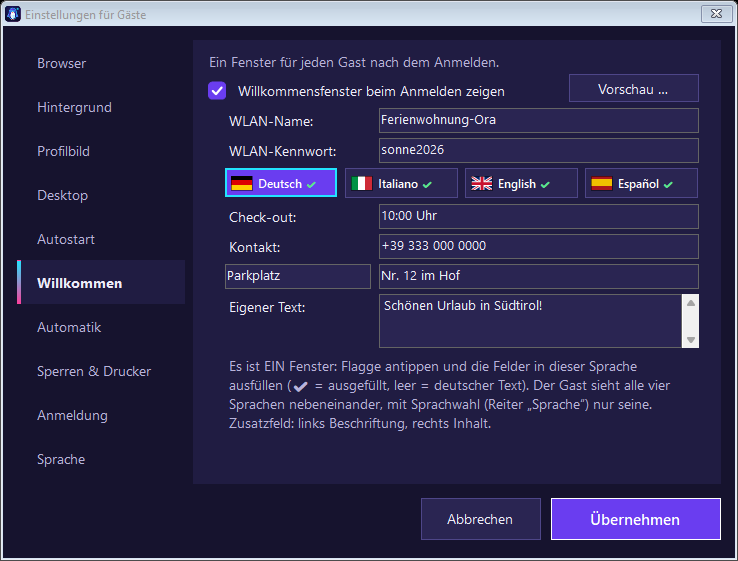
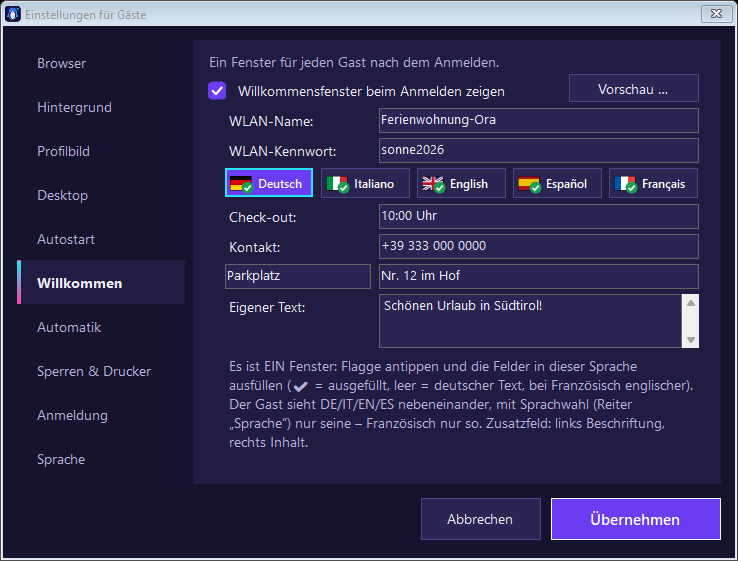
FreshGuest 1.26: French welcome texts (fifth flag tab)
Own French fields in the welcome settings, empty falls back to English then German;
check mark shown as a green badge on the flag.

Changed region(s): [[0.3117, 0.6667, 0.935, 0.8182], [0.4051, 0.303, 0.935, 0.3636], [0.3117, 0.303, 0.3428, 0.3636]]

diff --git a/anleitung/vorlage.html b/anleitung/vorlage.html
@@ -199,7 +199,7 @@
   <p>Jeder Gast sieht nach dem Anmelden ein Fenster – mit WLAN-Name und -Kennwort, Check-out-Zeit, deinem Kontakt und dem Hinweis,
   dass alles gelöscht wird. Die Texte stehen immer in <b>Deutsch, Italienisch, Englisch und Spanisch gleichzeitig</b> da, weil man nicht weiß, wer vor dem PC sitzt. Leere Felder werden nicht angezeigt. <b>Vorschau …</b> zeigt das Fenster, wie der Gast es sieht.</p>
   <ul>
-    <li><b>Texte je Sprache:</b> Es gibt nur <b>ein</b> Willkommensfenster – die Flaggen über den Feldern wählen nur, in welcher Sprache du gerade schreibst. Flagge antippen und Check-out, Kontakt, Zusatzfeld und eigenen Text in dieser Sprache eintragen; ein grünes ✔ an der Flagge zeigt, dass diese Sprache schon Text hat. Bleibt ein Feld in einer Sprache leer, gilt der deutsche Eintrag. WLAN-Name und -Kennwort gelten für alle. Ist die Sprachwahl für Gäste an, zeigt „Vorschau“ das Fenster in der gerade gewählten Sprache.</li>
+    <li><b>Texte je Sprache:</b> Es gibt nur <b>ein</b> Willkommensfenster – die Flaggen über den Feldern wählen nur, in welcher Sprache du gerade schreibst. Flagge antippen und Check-out, Kontakt, Zusatzfeld und eigenen Text in dieser Sprache eintragen; ein grünes ✔ an der Flagge zeigt, dass diese Sprache schon Text hat. Bleibt ein Feld in einer Sprache leer, gilt der deutsche Eintrag (bei Französisch zuerst der englische). Französisch sehen nur Gäste, die es über die Flaggen gewählt haben – dafür muss das französische Sprachpaket installiert und die Sprachwahl an sein. WLAN-Name und -Kennwort gelten für alle. Ist die Sprachwahl für Gäste an, zeigt „Vorschau“ das Fenster in der gerade gewählten Sprache.</li>
     <li><b>Zusatzfeld:</b> ein frei benennbares Feld – links die Beschriftung (z. B. „Parkplatz“ oder „Müll“), rechts der Inhalt.</li>
   </ul>
   <figure><img src="{{BILD:13-gast-willkommen}}" alt="Willkommensfenster beim Gast"><figcaption>So sieht es der Gast – alle Sprachen gleichzeitig</figcaption></figure>
@@ -246,7 +246,7 @@ reg unload HKLM\FG</pre></div>
   Hast du z. B. einen PC mit deutschem Windows auf Englisch umgestellt, sehen Gäste trotzdem Deutsch. Hier wählst du die <b>Windows-Sprache für Gäste</b>
   (Startmenü, Einstellungen, Explorer). Zur Auswahl stehen die Sprachpakete, die auf dem PC installiert sind. Die Tastatur bleibt wie bei deinem Konto,
   damit sie zur echten Tastatur am PC passt. Gilt ab dem nächsten Gast. Häkchen weg + Übernehmen = wieder Windows-Vorgabe.</p>
-  <p><b>Gäste dürfen die Windows-Sprache selbst wählen:</b> Beim Anmelden sieht der Gast zuerst nur die Flaggen – Deutsch, Italienisch, Englisch und Spanisch, soweit das Sprachpaket installiert ist. Ist auch das französische Sprachpaket installiert, kommt Französisch als fünfte Flagge dazu: Die festen Texte erscheinen dann auf Französisch, deine eigenen Texte (Check-out, Kontakt …) in der englischen Fassung.
+  <p><b>Gäste dürfen die Windows-Sprache selbst wählen:</b> Beim Anmelden sieht der Gast zuerst nur die Flaggen – Deutsch, Italienisch, Englisch und Spanisch, soweit das Sprachpaket installiert ist. Ist auch das französische Sprachpaket installiert, kommt Französisch als fünfte Flagge dazu: Windows und das Willkommen erscheinen dann auf Französisch. Deine eigenen Texte dafür trägst du im Reiter „Willkommen“ unter der Flagge „Français“ ein; fehlt dort etwas, gilt der englische Text.
   Tippt er auf seine Sprache, fragt FreshGuest in dieser Sprache nach, meldet den PC kurz ab und gleich wieder an (etwa eine Minute). Danach kommt das Willkommensfenster <b>nur in seiner Sprache</b>, groß und übersichtlich;
   mit „Andere Sprache“ kann er noch einmal wechseln. Wählt er die Sprache, die schon eingestellt ist, kommt das Willkommen sofort. Der nächste Gast bekommt wieder deine Standardsprache.
   Für jede Sprache muss das Windows-Sprachpaket installiert sein (mit deinem Konto: Einstellungen → Zeit und Sprache → Sprache und Region → Sprache hinzufügen). Ohne Sprachwahl zeigt das Willkommensfenster alle vier Sprachen nebeneinander.</p>
@@ -386,7 +386,7 @@ reg unload HKLM\FG</pre></div>
   <p>Dopo l'accesso ogni ospite vede una finestra – con nome e password del Wi-Fi, orario di check-out, il tuo contatto e l'avviso
   che tutto viene cancellato. I testi sono sempre in <b>tedesco, italiano, inglese e spagnolo insieme</b>, perché non si sa chi è seduto al PC. I campi vuoti non vengono mostrati. <b>Anteprima …</b> mostra la finestra come la vede l'ospite.</p>
   <ul>
-    <li><b>Testi per lingua:</b> la finestra di benvenuto è <b>una sola</b> – le bandiere sopra i campi scelgono solo in quale lingua stai scrivendo. Tocca una bandiera e inserisci check-out, contatto, campo extra e testo proprio in quella lingua; una ✔ verde sulla bandiera indica che quella lingua ha già del testo. Se un campo resta vuoto in una lingua, vale quello tedesco. Nome e password del Wi-Fi valgono per tutti. Con la scelta della lingua per gli ospiti attiva, «Anteprima» mostra la finestra nella lingua selezionata.</li>
+    <li><b>Testi per lingua:</b> la finestra di benvenuto è <b>una sola</b> – le bandiere sopra i campi scelgono solo in quale lingua stai scrivendo. Tocca una bandiera e inserisci check-out, contatto, campo extra e testo proprio in quella lingua; una ✔ verde sulla bandiera indica che quella lingua ha già del testo. Se un campo resta vuoto in una lingua, vale quello tedesco (per il francese prima quello inglese). Il francese lo vedono solo gli ospiti che lo scelgono con le bandiere – serve il pacchetto di lingua francese e la scelta della lingua attiva. Nome e password del Wi-Fi valgono per tutti. Con la scelta della lingua per gli ospiti attiva, «Anteprima» mostra la finestra nella lingua selezionata.</li>
     <li><b>Campo extra:</b> un campo con etichetta libera – a sinistra l'etichetta (ad es. «Parcheggio» o «Rifiuti»), a destra il contenuto.</li>
   </ul>
   <figure><img src="{{BILD:13-gast-willkommen-it}}" alt="Finestra di benvenuto"><figcaption>Così la vede l'ospite – tutte le lingue insieme</figcaption></figure>
@@ -434,7 +434,7 @@ reg unload HKLM\FG</pre></div>
   Se ad es. hai impostato in inglese un PC con Windows tedesco, gli ospiti vedono comunque il tedesco. Qui scegli la <b>lingua di Windows per gli ospiti</b>
   (menu Start, Impostazioni, Esplora file). Si possono scegliere i pacchetti di lingua installati sul PC. La tastiera resta come nel tuo account,
   così corrisponde alla tastiera fisica del PC. Vale dal prossimo ospite. Togliere la spunta + Applica = di nuovo l'impostazione predefinita di Windows.</p>
-  <p><b>Gli ospiti possono scegliere la lingua di Windows:</b> all'accesso l'ospite vede prima solo le bandiere – tedesco, italiano, inglese e spagnolo, se il pacchetto di lingua è installato. Se è installato anche il pacchetto francese, il francese si aggiunge come quinta bandiera: i testi fissi appaiono in francese, i tuoi testi (check-out, contatto …) nella versione inglese.
+  <p><b>Gli ospiti possono scegliere la lingua di Windows:</b> all'accesso l'ospite vede prima solo le bandiere – tedesco, italiano, inglese e spagnolo, se il pacchetto di lingua è installato. Se è installato anche il pacchetto francese, il francese si aggiunge come quinta bandiera: Windows e il benvenuto appaiono allora in francese. I tuoi testi per il francese si inseriscono nella scheda «Benvenuto» sotto la bandiera «Français»; se lì manca qualcosa, vale il testo inglese.
   Se tocca la sua lingua, FreshGuest chiede conferma in quella lingua, disconnette il PC per un attimo e lo riconnette subito (circa un minuto). Poi appare la finestra di benvenuto <b>solo nella sua lingua</b>, grande e chiara;
   con «Altra lingua» può cambiare ancora. Se sceglie la lingua già impostata, il benvenuto appare subito. L'ospite successivo riceve di nuovo la tua lingua predefinita.
   Per ogni lingua deve essere installato il pacchetto di lingua di Windows (con il tuo account: Impostazioni → Data/ora e lingua → Lingua e area geografica → Aggiungi una lingua). Senza scelta della lingua la finestra di benvenuto mostra tutte e quattro le lingue affiancate.</p>
@@ -574,7 +574,7 @@ reg unload HKLM\FG</pre></div>
   <p>After sign-in every guest sees a window – with Wi-Fi name and password, check-out time, your contact and the notice
   that everything is deleted. The texts are always shown in <b>German, Italian, English and Spanish together</b>, because you never know who is sitting at the PC. Empty fields are not shown. <b>Preview …</b> shows the window as the guest sees it.</p>
   <ul>
-    <li><b>Texts per language:</b> there is only <b>one</b> welcome window – the flags above the fields only choose the language you are writing in. Tap a flag and enter check-out, contact, extra field and own text in that language; a green ✔ on the flag shows that this language already has text. If a field is empty in one language, the German entry is used. Wi-Fi name and password apply to all. With language choice for guests on, “Preview” shows the window in the selected language.</li>
+    <li><b>Texts per language:</b> there is only <b>one</b> welcome window – the flags above the fields only choose the language you are writing in. Tap a flag and enter check-out, contact, extra field and own text in that language; a green ✔ on the flag shows that this language already has text. If a field is empty in one language, the German entry is used (for French the English one first). Only guests who pick French with the flags see it – this needs the French language pack and language choice switched on. Wi-Fi name and password apply to all. With language choice for guests on, “Preview” shows the window in the selected language.</li>
     <li><b>Extra field:</b> a field with a label of your choice – label on the left (e.g. “Parking” or “Waste”), content on the right.</li>
   </ul>
   <figure><img src="{{BILD:13-gast-willkommen-en}}" alt="Guest welcome window"><figcaption>What the guest sees – all languages together</figcaption></figure>
@@ -622,7 +622,7 @@ reg unload HKLM\FG</pre></div>
   If, for example, you switched a PC with German Windows to English, guests still see German. Here you choose the <b>Windows language for guests</b>
   (Start menu, Settings, Explorer). You can pick from the language packs installed on the PC. The keyboard stays as in your account,
   so it matches the PC's physical keyboard. Applies from the next guest. Untick + Apply = back to the Windows default.</p>
-  <p><b>Guests may choose the Windows language themselves:</b> at sign-in the guest first sees only the flags – German, Italian, English and Spanish, as far as the language pack is installed. If the French language pack is installed too, French is added as a fifth flag: the fixed texts appear in French, your own texts (check-out, contact …) in their English version.
+  <p><b>Guests may choose the Windows language themselves:</b> at sign-in the guest first sees only the flags – German, Italian, English and Spanish, as far as the language pack is installed. If the French language pack is installed too, French is added as a fifth flag: Windows and the welcome then appear in French. You enter your own French texts in the “Welcome” tab under the “Français” flag; anything missing there is taken from the English text.
   When they tap their language, FreshGuest asks for confirmation in that language, signs the PC out briefly and straight back in (about a minute). Then the welcome window appears <b>in their language only</b>, large and clear;
   “Other language” lets them switch again. If they pick the language that is already set, the welcome appears right away. The next guest gets your default language again.
   Each language needs its Windows language pack (with your account: Settings → Time &amp; language → Language &amp; region → Add a language). Without language choice the welcome window shows all four languages side by side.</p>

diff --git a/src/FreshGuest.cs b/src/FreshGuest.cs
@@ -2412,13 +2412,13 @@ namespace GaesteSchutz
 
             // Ab hier je Sprache: erst die Flagge antippen, dann die Felder in dieser Sprache ausfüllen
             int tx = 32;
-            foreach (GuestLang gl in GuestTexts.Active(editInfo.Lang4))
+            foreach (GuestLang gl in GuestTexts.Active(editInfo.Lang4).Concat(new[] { GuestTexts.Fr }))     // + Französisch
             {
-                var tab = new LangTab(gl.Code, gl.Name) { Location = new Point(tx, 128), Size = new Size(113, 30) };
+                var tab = new LangTab(gl.Code, gl.Name) { Location = new Point(tx, 128), Size = new Size(89, 30) };
                 tab.Click += (s, e) => SelectEditLang(tab.LangTag);
                 langTabs.Add(tab);
                 t.Controls.Add(tab);
-                tx += 120;
+                tx += 96;
             }
             txtCheckout = WelcomeRow(t, "Check-out:", 164, "");
             txtContact = WelcomeRow(t, L.T("Kontakt:", "Contatto:", "Contact:"), 194, "");
@@ -2436,9 +2436,9 @@ namespace GaesteSchutz
             btnPreview.Click += (s, e) => WelcomeForm.Preview(this, CurrentWelcome(), chkChoice.Checked ? editSlot : null);
             t.Controls.Add(btnPreview);
             Indent(AddInfo(t, L.T(
-                "Es ist EIN Fenster: Flagge antippen und die Felder in dieser Sprache ausfüllen (✔ = ausgefüllt, leer = deutscher Text). Der Gast sieht alle vier Sprachen nebeneinander, mit Sprachwahl (Reiter „Sprache“) nur seine. Zusatzfeld: links Beschriftung, rechts Inhalt.",
-                "È UNA sola finestra: tocca una bandiera e compila i campi in quella lingua (✔ = compilata, vuoto = testo tedesco). L'ospite vede tutte e quattro le lingue affiancate, con la scelta della lingua (scheda «Lingua») solo la sua. Campo extra: a sinistra l'etichetta, a destra il contenuto.",
-                "It is ONE window: tap a flag and fill in the fields in that language (✔ = filled in, empty = German text). The guest sees all four languages side by side, with language choice (\"Language\" tab) only their own. Extra field: label on the left, content on the right."),
+                "Es ist EIN Fenster: Flagge antippen und die Felder in dieser Sprache ausfüllen (✔ = ausgefüllt, leer = deutscher Text, bei Französisch englischer). Der Gast sieht DE/IT/EN/ES nebeneinander, mit Sprachwahl (Reiter „Sprache“) nur seine – Französisch nur so. Zusatzfeld: links Beschriftung, rechts Inhalt.",
+                "È UNA sola finestra: tocca una bandiera e compila i campi in quella lingua (✔ = compilata, vuoto = testo tedesco, per il francese quello inglese). L'ospite vede DE/IT/EN/ES affiancate, con la scelta della lingua (scheda «Lingua») solo la sua – il francese solo così. Campo extra: a sinistra l'etichetta, a destra il contenuto.",
+                "It is ONE window: tap a flag and fill in the fields in that language (✔ = filled in, empty = German text, for French the English one). The guest sees DE/IT/EN/ES side by side, with language choice (\"Language\" tab) only their own – French only that way. Extra field: label on the left, content on the right."),
                 316, 100), 32);
 
             LoadWelcomeFields();
@@ -2487,13 +2487,14 @@ namespace GaesteSchutz
             txtExtraName.Text = editInfo.Raw("ExtraName", editSlot);
             txtExtra.Text = editInfo.Raw("Extra", editSlot);
             txtText.Text = editInfo.Raw("Text", editSlot);
-            // Grauer Hinweis im leeren Feld: in anderen Sprachen der deutsche Eintrag, der sonst gilt
+            // Grauer Hinweis im leeren Feld: der Eintrag, der sonst gilt (Deutsch; bei Französisch erst Englisch)
             bool de = editSlot == "de";
-            Cue(txtCheckout, de ? "" : editInfo.Raw("Checkout", "de"));
-            Cue(txtContact, de ? "" : editInfo.Raw("Kontakt", "de"));
-            Cue(txtExtra, de ? "" : editInfo.Raw("Extra", "de"));
-            Cue(txtExtraName, de || editInfo.Raw("ExtraName", "de").Length == 0
-                ? L.T("Zusatzfeld, z. B. Parkplatz", "Campo extra, ad es. Parcheggio", "Extra field, e.g. Parking") : editInfo.Raw("ExtraName", "de"));
+            string fb = editSlot == "fr" ? "en" : "de";
+            Cue(txtCheckout, de ? "" : editInfo.Get("Checkout", fb));
+            Cue(txtContact, de ? "" : editInfo.Get("Kontakt", fb));
+            Cue(txtExtra, de ? "" : editInfo.Get("Extra", fb));
+            Cue(txtExtraName, de || editInfo.Get("ExtraName", fb).Length == 0
+                ? L.T("Zusatzfeld, z. B. Parkplatz", "Campo extra, ad es. Parcheggio", "Extra field, e.g. Parking") : editInfo.Get("ExtraName", fb));
             loadingWelcome = false;
             MarkFilledTabs();
         }
@@ -3329,6 +3330,7 @@ namespace GaesteSchutz
                 st.Set("W_Extra", "Nr. 12 im Hof"); st.Set("W_Extra_it", "n. 12 nel cortile"); st.Set("W_Extra_en", "No. 12 in the yard");
                 st.Set("W_Text", "Schönen Urlaub in Südtirol!"); st.Set("W_Text_it", "Buone vacanze in Alto Adige!"); st.Set("W_Text_en", "Enjoy your holiday in South Tyrol!");
                 st.Set("W_Checkout_es", "10:00 h"); st.Set("W_ExtraName_es", "Aparcamiento"); st.Set("W_Extra_es", "n.º 12 en el patio"); st.Set("W_Text_es", "¡Felices vacaciones en el Tirol del Sur!");
+                st.Set("W_Checkout_fr", "10h00"); st.Set("W_ExtraName_fr", "Parking"); st.Set("W_Extra_fr", "n° 12 dans la cour"); st.Set("W_Text_fr", "Bonnes vacances au Tyrol du Sud !");
                 st.Set("AbmeldenMin", "60");
                 st.Set("NeustartZeit", "04:00");
                 st.Set("Sperren", "1");

diff --git a/src/Sprachwahl.cs b/src/Sprachwahl.cs
@@ -432,7 +432,7 @@ namespace GaesteSchutz
         {
             LangTag = tag;
             Text = name;
-            Font = new Font("Segoe UI Semibold", 9f);
+            Font = new Font("Segoe UI Semibold", 8.5f);
             Cursor = Cursors.Hand;
             SetStyle(ControlStyles.UserPaint | ControlStyles.AllPaintingInWmPaint | ControlStyles.OptimizedDoubleBuffer | ControlStyles.ResizeRedraw, true);
         }
@@ -448,23 +448,27 @@ namespace GaesteSchutz
             g.Clear(Parent != null ? Parent.BackColor : Ui.Surface);
             var r = new Rectangle(0, 0, Width - 1, Height - 1);
             using (var br = new SolidBrush(selected ? Ui.Blue : hot && Enabled ? Ui.FieldHover : Ui.Field)) g.FillRectangle(br, r);
-            int pad = (int)(6 * k);
+            int pad = (int)(5 * k);
             int fh = Height - 2 * (int)(8 * k), fw = fh * 3 / 2;
             var fr = new Rectangle(pad, (Height - fh) / 2, fw, fh);
             Flags.Draw(g, fr, LangTag);
             using (var pen = new Pen(Color.FromArgb(120, 0, 0, 0))) g.DrawRectangle(pen, fr);
             if (!Enabled)
                 using (var br = new SolidBrush(Color.FromArgb(150, Ui.Field))) g.FillRectangle(br, fr);
-            // Name, dahinter grünes ✔, wenn in dieser Sprache schon etwas steht
-            int check = filled ? TextRenderer.MeasureText(g, "✔", Font).Width : 0;
-            var tr = Rectangle.FromLTRB(fr.Right + pad, 0, Width - pad - check, Height);
-            var flags = TextFormatFlags.Left | TextFormatFlags.VerticalCenter | TextFormatFlags.NoPadding | TextFormatFlags.EndEllipsis;
-            TextRenderer.DrawText(g, Text, Font, tr, Enabled ? Color.White : Ui.Disabled, flags);
+            var tr = Rectangle.FromLTRB(fr.Right + pad + (int)(2 * k), 0, Width - (int)(3 * k), Height);
+            TextRenderer.DrawText(g, Text, Font, tr, Enabled ? Color.White : Ui.Disabled,
+                TextFormatFlags.Left | TextFormatFlags.VerticalCenter | TextFormatFlags.NoPadding | TextFormatFlags.EndEllipsis);
+            // Grünes ✔ unten rechts an der Flagge, wenn in dieser Sprache schon etwas steht
             if (filled)
             {
-                int tw = Math.Min(TextRenderer.MeasureText(g, Text, Font, tr.Size, flags).Width, tr.Width);
-                TextRenderer.DrawText(g, "✔", Font, new Rectangle(tr.X + tw + (int)(3 * k), 0, check, Height),
-                    Enabled ? Ui.OkText : Ui.Disabled, flags & ~TextFormatFlags.EndEllipsis);
+                int d = (int)(12 * k);
+                var c = new Rectangle(fr.Right - d + (int)(2 * k), fr.Bottom - d + (int)(3 * k), d, d);
+                g.SmoothingMode = SmoothingMode.AntiAlias;
+                using (var br = new SolidBrush(Enabled ? Color.FromArgb(27, 160, 80) : Ui.Disabled)) g.FillEllipse(br, c);
+                using (var pen = new Pen(Color.White, 1.6f * k))
+                    g.DrawLines(pen, new[] { new PointF(c.X + d * 0.25f, c.Y + d * 0.52f), new PointF(c.X + d * 0.43f, c.Y + d * 0.70f),
+                                             new PointF(c.X + d * 0.76f, c.Y + d * 0.32f) });
+                g.SmoothingMode = SmoothingMode.None;
             }
             using (var pen = new Pen(selected && Enabled ? Logo.Cyan : Ui.Border, selected ? 2f * k : 1f))
                 g.DrawRectangle(pen, selected ? Rectangle.Inflate(r, -(int)k, -(int)k) : r);

diff --git a/src/Gast.cs b/src/Gast.cs
@@ -45,7 +45,8 @@ namespace GaesteSchutz
         // Felder je Sprache. "de" ist die Grundlage: Bleibt ein Feld in einer anderen Sprache leer, gilt der deutsche Eintrag.
         // ExtraName/Extra = frei benennbares Zusatzfeld (z. B. „Parkplatz“).
         public static readonly string[] LangFields = { "Checkout", "Kontakt", "Text", "ExtraName", "Extra" };
-        public static readonly string[] Slots = { "de", "it", "en", "es" };
+        // "fr" = Französisch: eigene Felder (Reiter „Français“), gezeigt nur französischen Gästen nach der Sprachwahl
+        public static readonly string[] Slots = { "de", "it", "en", "es", "fr" };
         readonly Dictionary<string, string> vals = new Dictionary<string, string>();
 
         public string Raw(string field, string slot) { string v; return vals.TryGetValue(field + "|" + slot, out v) ? v : ""; }
@@ -54,11 +55,11 @@ namespace GaesteSchutz
             value = (value ?? "").Trim();
             if (value.Length == 0) vals.Remove(field + "|" + slot); else vals[field + "|" + slot] = value;
         }
-        // Französisch (nur als Gast-Sprache, ohne eigene Felder): erst der englische, dann der deutsche Eintrag
+        // Französisch leer: erst der englische, dann der deutsche Eintrag
         public string Get(string field, string slot)
         {
             string v = Raw(field, slot);
-            if (v.Length == 0 && Array.IndexOf(Slots, slot) < 0) v = Raw(field, "en");
+            if (v.Length == 0 && slot == "fr") v = Raw(field, "en");
             return v.Length > 0 ? v : Raw(field, "de");
         }
 

diff --git a/ANLEITUNG.md b/ANLEITUNG.md
@@ -90,7 +90,7 @@ Am 09.11.2026 auf dem echten Gäste-PC (Windows 11 Pro, italienisch) mit **Versi
 **Auf dem Gäste-PC bestätigt (1.3):** Hintergrund für Gäste.
 **Lizenz (ab der Veröffentlichung):** GNU GPL v3.0 oder neuer (statt MIT + Commons Clause). Veränderte Fassungen dürfen nicht „FreshGuest“ heißen und nicht das Logo tragen.
 
-**Neu in 1.26:** Test von 1.25 am PC mit vier Sprachpaketen erfolgreich (Flaggen → Abmelden/Anmelden → Willkommen in einer Sprache). **Doppelte Browser-Symbole:** Die Symbole von Chrome/Edge auf dem öffentlichen Desktop (Ziel `chrome.exe`/`msedge.exe`) kommen nach `C:\ProgramData\GaestePC\Desktop-Sicherung`, das Admin-Konto bekommt eine Kopie auf seinen Desktop (Store `SymboleVerschoben`/`SymboleKopiert`); damit Edge-Updates das Symbol nicht neu anlegen: `HKLM\SOFTWARE\Policies\Microsoft\EdgeUpdate\CreateDesktopShortcutDefault=0` (nur wenn vorher nicht gesetzt, Store `EdgeUpdateSymbol`). Rückgängig beim Abschalten/Deinstallieren und im Rücksetz-Werkzeug. **Schnellerer Start der Gast-Fenster:** im Standardprofil `Explorer\Serialize` `StartupDelayInMSec=0` und `WaitForIdleState=0` (Autostart ohne Verzögerung), dazu `EnableFirstLogonAnimation=0` (HKLM Policies\System, nur wenn vorher nicht gesetzt) – Merker `SchnellStart`/`SchnellStartAnimation` in `HKLM\SOFTWARE\FreshGuest`. **Französisch als 5. Flagge:** `GuestSwitch.Allowed` enthält `fr` – erscheint nur, wenn das Sprachpaket installiert ist. Feste Gast-Texte auf Französisch (`GuestTexts.Fr`, nicht in `All`: Fenster mit allen Sprachen und Einstellungen bleiben bei vier), eigene Felder fallen für `fr` auf Englisch, dann Deutsch zurück. Rückfrage beim Umschalten jetzt auch auf Spanisch (fehlte) und Französisch. Flaggen werden bei schmalen Bildschirmen kleiner. **Willkommen-Einstellungen:** statt der Liste „Texte in Sprache“ vier Flaggen-Reiter (`LangTab`) mit grünem ✔ für ausgefüllte Sprachen; Vorschau mit Sprachwahl nur in der gewählten Sprache. **Am Gäste-PC noch zu testen.**
+**Neu in 1.26:** Test von 1.25 am PC mit vier Sprachpaketen erfolgreich (Flaggen → Abmelden/Anmelden → Willkommen in einer Sprache). **Doppelte Browser-Symbole:** Die Symbole von Chrome/Edge auf dem öffentlichen Desktop (Ziel `chrome.exe`/`msedge.exe`) kommen nach `C:\ProgramData\GaestePC\Desktop-Sicherung`, das Admin-Konto bekommt eine Kopie auf seinen Desktop (Store `SymboleVerschoben`/`SymboleKopiert`); damit Edge-Updates das Symbol nicht neu anlegen: `HKLM\SOFTWARE\Policies\Microsoft\EdgeUpdate\CreateDesktopShortcutDefault=0` (nur wenn vorher nicht gesetzt, Store `EdgeUpdateSymbol`). Rückgängig beim Abschalten/Deinstallieren und im Rücksetz-Werkzeug. **Schnellerer Start der Gast-Fenster:** im Standardprofil `Explorer\Serialize` `StartupDelayInMSec=0` und `WaitForIdleState=0` (Autostart ohne Verzögerung), dazu `EnableFirstLogonAnimation=0` (HKLM Policies\System, nur wenn vorher nicht gesetzt) – Merker `SchnellStart`/`SchnellStartAnimation` in `HKLM\SOFTWARE\FreshGuest`. **Französisch als 5. Flagge:** `GuestSwitch.Allowed` enthält `fr` – erscheint nur, wenn das Sprachpaket installiert ist. Feste Gast-Texte auf Französisch (`GuestTexts.Fr`, nicht in `All`: Fenster mit allen Sprachen und Einstellungen bleiben bei vier), eigene Felder für `fr` im Willkommen-Reiter „Français“ (`W_<Feld>_fr`, `WelcomeInfo.Slots` hat jetzt fünf Einträge), leer → Englisch, dann Deutsch. Reiter zeigen das ✔ als grünen Punkt an der Flagge. Rückfrage beim Umschalten jetzt auch auf Spanisch (fehlte) und Französisch. Flaggen werden bei schmalen Bildschirmen kleiner. **Willkommen-Einstellungen:** statt der Liste „Texte in Sprache“ vier Flaggen-Reiter (`LangTab`) mit grünem ✔ für ausgefüllte Sprachen; Vorschau mit Sprachwahl nur in der gewählten Sprache. **Am Gäste-PC noch zu testen.**
 
 **Neu in 1.25:** Willkommensfenster nach **Entwurf A**: WLAN-Zeile, darunter die vier Sprachen als Spalten nebeneinander (auf schmalen Bildschirmen 2 × 2), jede mit Flagge. **Mit Sprachwahl:** Ist Windows in der Standardsprache (`GastStandardSprache`, sonst Installationssprache), kommen zuerst nur die Flaggen (`LanguageForm`); andere Sprache → Abmelden/Anmelden → Willkommen bzw. Hinweis **nur in dieser Sprache** mit Taste „Andere Sprache“. Gleiche Sprache → Willkommen sofort. Am PC getestet (1.26).
 

diff --git a/README.md b/README.md
@@ -58,7 +58,7 @@ All settings apply to guests only – your own account stays as it is.
 - **Wallpaper** and **profile picture** for guests – the picture also replaces the grey question-mark figure on the “Guest” tile of the sign-in screen
 - **Desktop** – files, programs and links every new guest finds on the desktop
 - **Autostart** – open a page or program when a guest signs in
-- **Welcome window** – Wi-Fi name and password; check-out, contact, an extra field of your choice and your own text, each per language
+- **Welcome window** – Wi-Fi name and password; check-out, contact, an extra field of your choice and your own text, each per language (German, Italian, English, Spanish, French)
 - **Automatic** – shut the PC down when a guest leaves it unused (after a 60-second “Still there?”), restart daily at a fixed time, show a notice that the PC is reset after every guest
 - **Locks & printer** – lock Control Panel / Settings, command prompt, registry editor, installing programs and running programs from Downloads; default printer for guests
 - **Language** – the Windows display language for guests, chosen from the language packs installed on the PC (otherwise guests get the language Windows was installed with); optionally guests first see only flag buttons (German, Italian, English, Spanish – plus French if its language pack is installed) – after picking one, the PC signs out briefly and back in, and the welcome window appears in that language only
